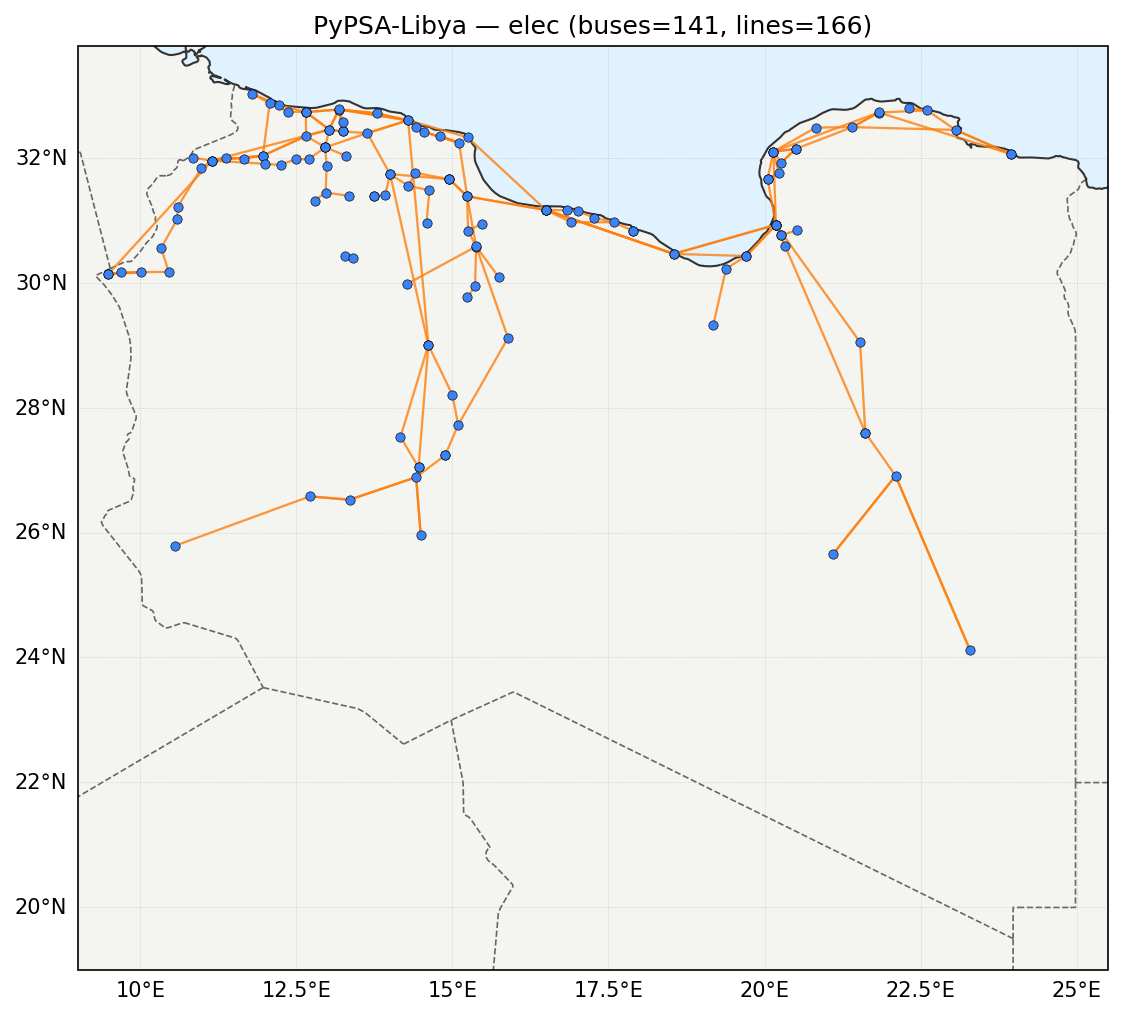
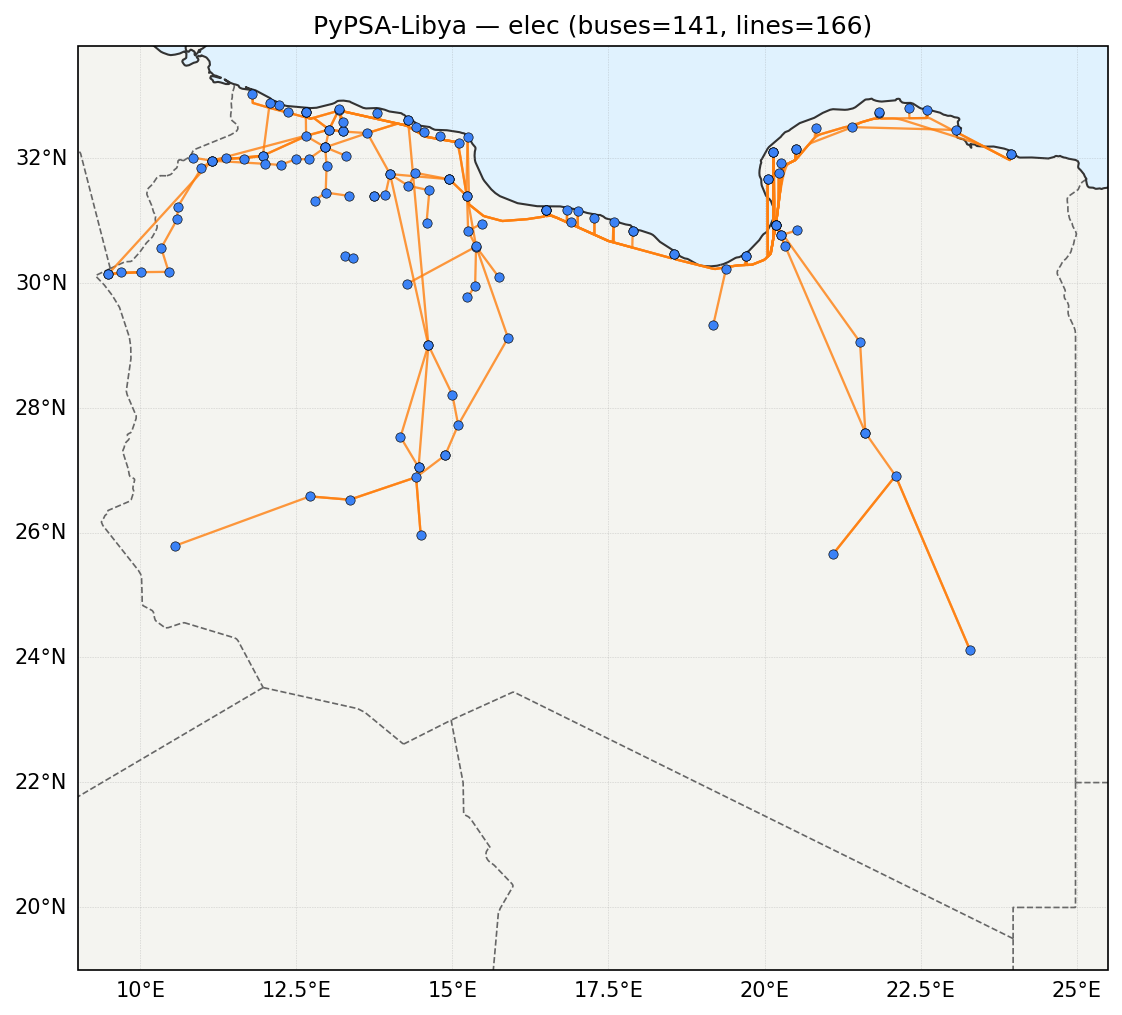
Add files via upload

diff --git a/Output/libya-year-36clusters/NoLCO2/visualize_libya_year.py b/Output/libya-year-36clusters/NoLCO2/visualize_libya_year.py
@@ -19,21 +19,16 @@ import matplotlib.cm as cm
 import matplotlib.colors as mcolors
 from matplotlib.lines import Line2D
 
-# Cartopy import for geographic basemaps
-try:
-    import cartopy.crs as ccrs
-    import cartopy.feature as cfeature
-    HAS_CARTOPY = True
-except ImportError:
-    HAS_CARTOPY = False
-    print("Warning: cartopy not found. Falling back to simple coordinate plotting.")
 
 # =====================================================================
-# CONFIGURATION
+# RUN CONFIGURATION
 # =====================================================================
 
 CLUSTERS = 36  
+
 HOURS = 6
+# HOURS = 3
+
 USE_CCL = False
 
 RUN_NAME_BY_CLUSTERS = {
@@ -47,6 +42,89 @@ RUN_NAME = RUN_NAME_BY_CLUSTERS.get(CLUSTERS, f"libya-year-{CLUSTERS}clusters")
 ccl_suffix = "_CCL" if USE_CCL else ""
 OUT_DIR = os.path.join("viz_outputs", f"libya-year-{CLUSTERS}clusters-{HOURS}h{ccl_suffix}")
 os.makedirs(OUT_DIR, exist_ok=True)
+
+
+
+# Cartopy import for geographic basemaps
+try:
+    import cartopy.crs as ccrs
+    import cartopy.feature as cfeature
+    HAS_CARTOPY = True
+except ImportError:
+    HAS_CARTOPY = False
+    print("Warning: cartopy not found. Falling back to simple coordinate plotting.")
+
+# =====================================================================
+# COASTAL LINE ROUTING CONFIGURATION (LIBYA LAND BOUNDARY)
+# =====================================================================
+
+COAST_LONS = np.array([
+    9.0, 11.5, 12.08, 12.73, 13.19, 14.26, 14.57, 15.09, 
+    15.25, 15.50, 15.80, 16.20, 16.59, 17.50, 18.56, 19.20,
+    19.57, 19.80, 20.00, 20.10, 20.20, 20.30, 20.50, 20.83, 
+    21.75, 22.64, 23.96, 25.09, 26.0
+])
+
+COAST_LATS = np.array([
+    33.0, 33.1, 32.93, 32.76, 32.89, 32.65, 32.47, 32.38, 
+    31.40, 31.20, 31.12, 31.15, 31.21, 30.80, 30.51, 30.35,
+    30.41, 30.42, 30.50, 30.60, 31.20, 32.00, 32.10, 32.49, 
+    32.76, 32.77, 32.08, 31.76, 31.50
+])
+
+def get_coast_lat(lon):
+    """Returns the latitude of the Libyan coastline at a given longitude."""
+    return np.interp(lon, COAST_LONS, COAST_LATS)
+
+def route_line_land(x0, y0, x1, y1, land_offset=0.13, num_pts=50, allow_waypoint=True):
+    """
+    Routes transmission lines safely on land following coastal contours if 
+    a straight Euclidean segment crosses water. Inland lines remain straight.
+    """
+    if x0 == x1 or (abs(x0 - x1) < 1e-5 and abs(y0 - y1) < 1e-5):
+        return [x0, x1], [y0, y1]
+
+    # Special waypoint routing for the Gulf of Sirte corner (Brega/Ajdabiya to Benghazi corridor)
+    # where lines connect southwest (lon < 20.15, lat < 30.8) to north (lon 19.8-20.4, lat > 31.3)
+    min_x, max_x = min(x0, x1), max(x0, x1)
+    min_y, max_y = min(y0, y1), max(y0, y1)
+
+    is_region2_crossing = (
+        (min_x < 20.15 and max_x > 19.8) and
+        (min_y < 30.8 and max_y > 31.3)
+    )
+
+    if is_region2_crossing and allow_waypoint:
+        x_mid, y_mid = 20.32, 30.70  # Inland waypoint east of Ajdabiya
+        xs1, ys1 = route_line_land(x0, y0, x_mid, y_mid, land_offset=land_offset, num_pts=num_pts//2, allow_waypoint=False)
+        xs2, ys2 = route_line_land(x_mid, y_mid, x1, y1, land_offset=land_offset, num_pts=num_pts//2, allow_waypoint=False)
+        return np.concatenate([xs1, xs2]), np.concatenate([ys1, ys2])
+
+    xs = np.linspace(x0, x1, num_pts)
+    ys_linear = np.linspace(y0, y1, num_pts)
+    coast_lats = get_coast_lat(xs) - land_offset
+    
+    # Clamp y-coordinates to stay on land (south of coastal water)
+    ys_land = np.minimum(ys_linear, coast_lats)
+    ys_land[0] = y0
+    ys_land[-1] = y1
+    
+    # Smooth line path if it was adjusted landward
+    if num_pts > 5 and np.any(ys_linear > coast_lats):
+        kernel_size = 5
+        kernel = np.ones(kernel_size) / kernel_size
+        ys_smooth = np.convolve(ys_land, kernel, mode='same')
+        ys_smooth[0] = y0
+        ys_smooth[1] = ys_land[1]
+        ys_smooth[-2] = ys_land[-2]
+        ys_smooth[-1] = y1
+        ys_land = np.minimum(ys_smooth, coast_lats)
+        ys_land[0] = y0
+        ys_land[-1] = y1
+
+    return xs, ys_land
+
+
 
 print("=" * 70)
 print(f"RUN CONFIGURATION: Clusters={CLUSTERS}, Resolution={HOURS}h, USE_CCL={USE_CCL}")
@@ -220,7 +298,8 @@ def draw_base_lines(base_network, ax, color="tab:orange", alpha=0.75, linewidth=
         x0, y0 = find_bus_coords(base_network, row.bus0)
         x1, y1 = find_bus_coords(base_network, row.bus1)
         if x0 is not None and x1 is not None and (x0 != x1 or y0 != y1):
-            ax.plot([x0, x1], [y0, y1], c=color, lw=linewidth, alpha=alpha, zorder=2)
+            xs, ys = route_line_land(x0, y0, x1, y1)
+            ax.plot(xs, ys, c=color, lw=linewidth, alpha=alpha, zorder=2)
             lines_drawn += 1
     return lines_drawn
 
@@ -439,7 +518,7 @@ else:
 
 active_carriers = [c for c in colors.keys() if c in total_dispatch.columns and total_dispatch[c].sum() > 1e-3]
 
-# Annual Time Series Area Plot (Fixed using matplotlib stackplot for explicit color assignment)
+# Annual Time Series Area Plot
 if active_carriers:
     fig, ax = plt.subplots(figsize=(14, 6))
     
@@ -805,7 +884,8 @@ for idx, row in n.lines.iterrows():
         val = metric_series.get(idx, 0.0)
         line_color = cmap_lines(norm_metric(val)) if val > (min_val + 0.05 * (max_val - min_val)) else "#a1a1aa"
         linewidth = 1.0 + 3.0 * norm_metric(val)
-        ax.plot([x0, x1], [y0, y1], color=line_color, lw=linewidth, zorder=3, alpha=0.85)
+        xs, ys = route_line_land(x0, y0, x1, y1)
+        ax.plot(xs, ys, color=line_color, lw=linewidth, zorder=3, alpha=0.85)
 
 top_10_lines = metric_series.head(10)
 line_offsets = [
@@ -820,8 +900,10 @@ for i, idx in enumerate(top_10_lines.index):
         x0, y0 = find_bus_coords(n, row.bus0)
         x1, y1 = find_bus_coords(n, row.bus1)
         if x0 is not None and x1 is not None:
-            mid_x = (x0 + x1) / 2.0
-            mid_y = (y0 + y1) / 2.0
+            xs, ys = route_line_land(x0, y0, x1, y1)
+            mid_idx = len(xs) // 2
+            mid_x = xs[mid_idx]
+            mid_y = ys[mid_idx]
             
             raw_offset = line_offsets[i % len(line_offsets)]
             safe_offset = get_safe_offset(mid_x, mid_y, raw_offset)
